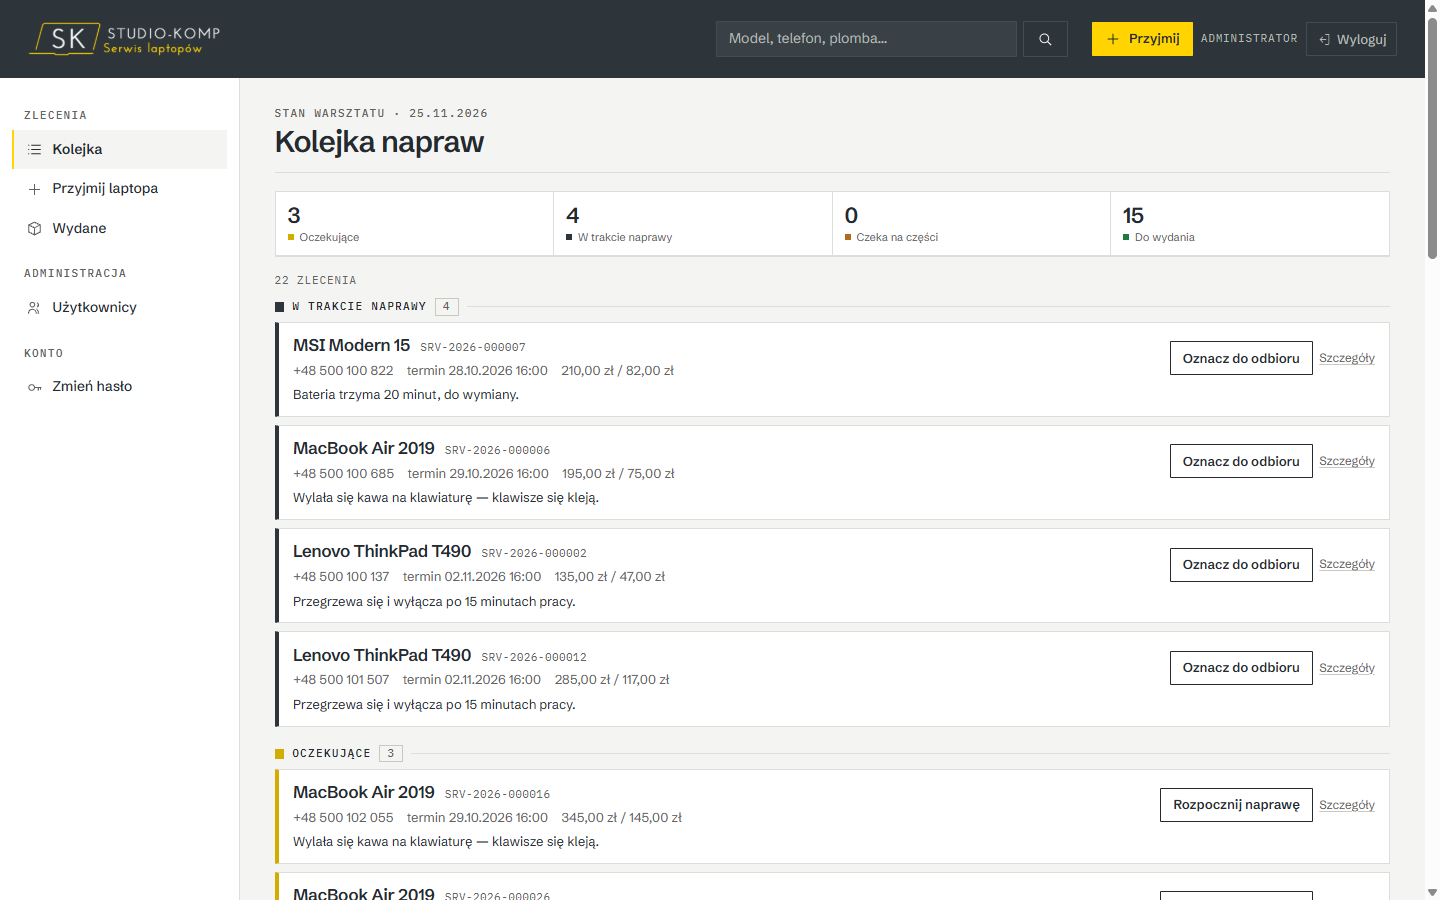
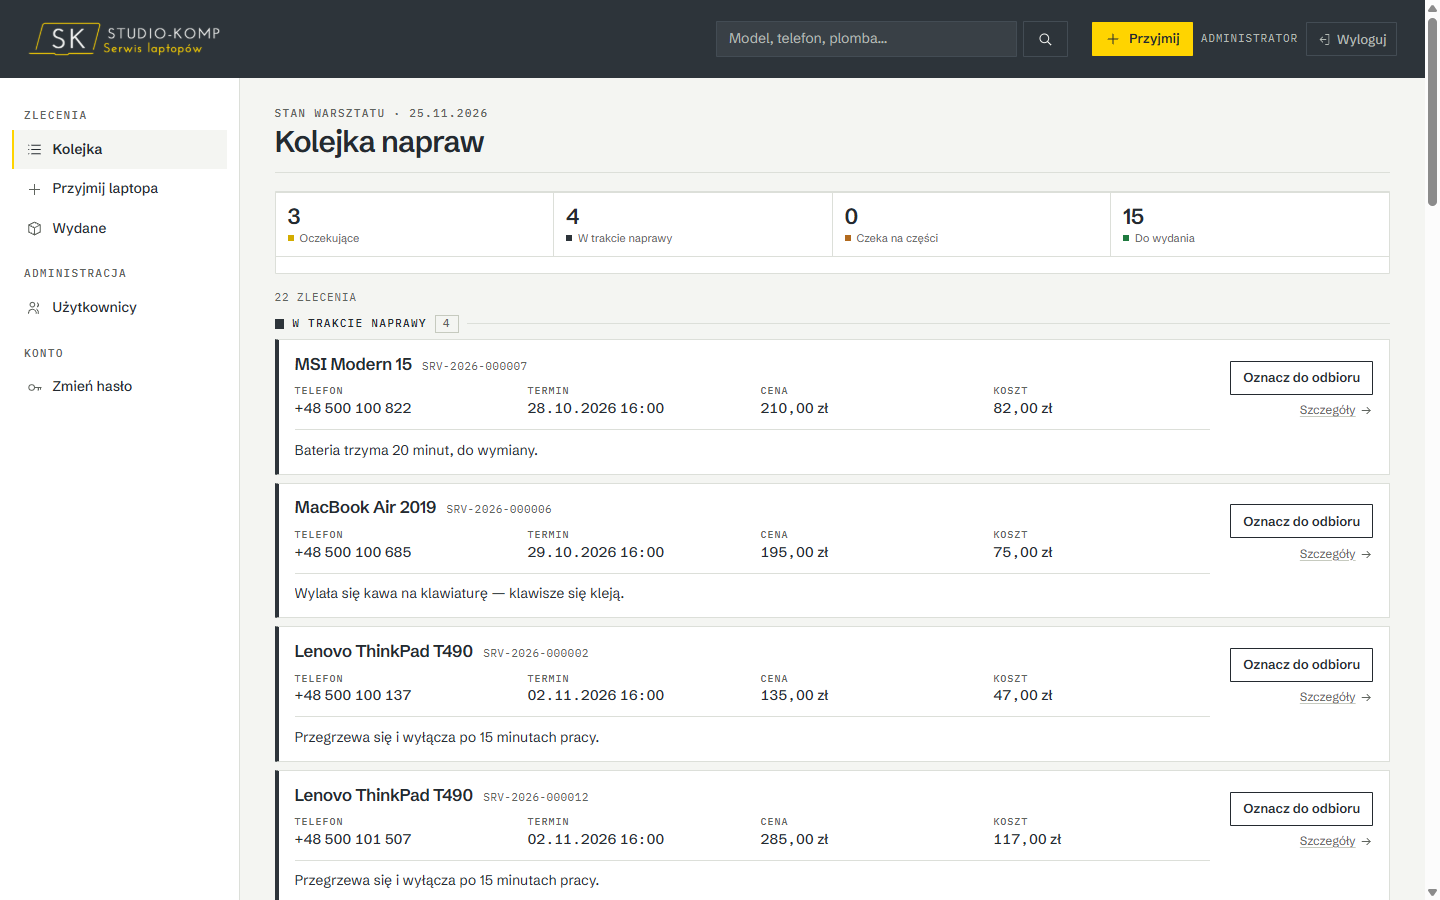
Refresh the queue screenshots for the new tile layout
app-queue-desktop, app-queue-search-desktop and app-queue-mobile were taken before the tile changed, so the documentation showed a layout the app no longer renders. README also carries the new test count (311).

diff --git a/README.md b/README.md
@@ -74,11 +74,11 @@ Dane demonstracyjne (30 zleceń, tylko poza produkcją): `php artisan db:seed --
 ```bash
 vendor/bin/pint --test
 vendor/bin/phpstan analyse --memory-limit=1G
-php artisan test                 # 309 testów: json + mysql
+php artisan test                 # 311 testów: json + mysql
 php artisan dusk                 # 17 scenariuszy przeglądarkowych + axe (ADR 0011)
 ```
 
-Stan na 2026-11-25: **309 testów zielonych w obu trybach magazynu** + **17 scenariuszy Dusk (z axe)**,
+Stan na 2026-11-25: **311 testów zielonych w obu trybach magazynu** + **17 scenariuszy Dusk (z axe)**,
 Pint czysty, PHPStan poziom 6 bez błędów.
 Raport parzystości (F-01…F-57, D-01…D-58): [`docs/aegis/verification/parity-report.md`](docs/aegis/verification/parity-report.md).
 Wyrównanie wizualne ze stroną firmową: [docs/aegis/verification/visual-alignment.md](docs/aegis/verification/visual-alignment.md).
